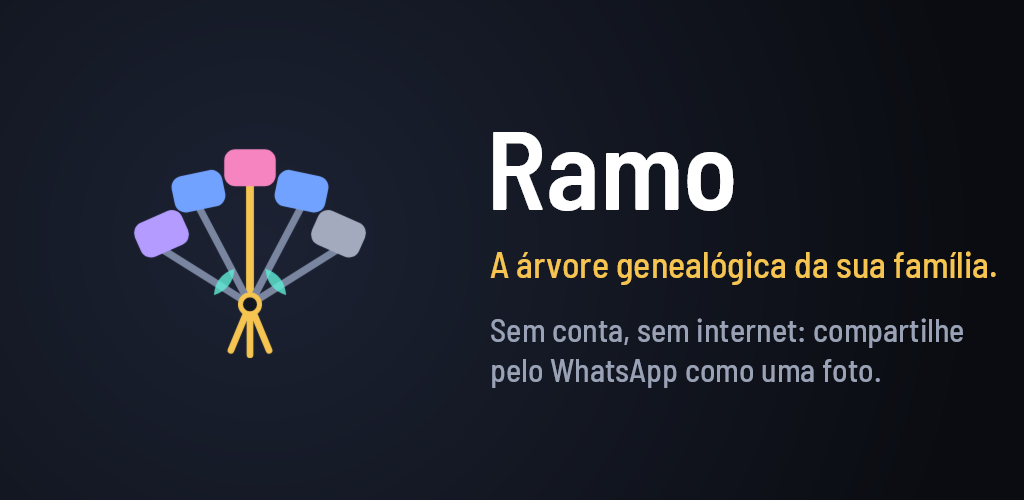
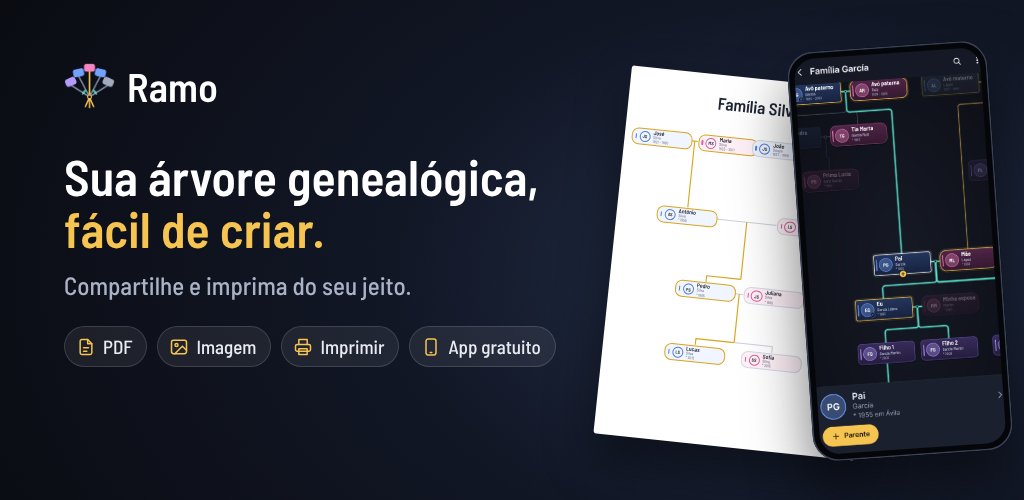
Tienda: nueva imagen destacada (móvil y hoja impresa) en los seis idiomas, sin WhatsApp
Se genera con tienda/destacada-fuente/generar.js a partir de destacada.html, que
sustituye a destacada-ramo.cs. Habla de lo fácil que es, de compartir en PDF, como
imagen o con la app gratuita y de imprimir; la hoja lleva apellidos de cada idioma.

Claude-Session: https://claude.ai/code/session_01PULE3Ctvt9eCQFhCMTbxC5

Changed region(s): [[0.0625, 0.12, 1.0, 0.93], [0.0625, 0.12, 0.2188, 0.21], [0.0625, 0.66, 0.125, 0.72]]

diff --git a/tienda/destacada-fuente/destacada.html b/tienda/destacada-fuente/destacada.html
@@ -1,0 +1,177 @@
+<!doctype html>
+<html><head><meta charset="utf-8">
+<style>
+@font-face{font-family:B;src:url(../../src/ArbolGenealogico.Movil/Recursos/Fuentes/BarlowSemiCondensed-Medium.ttf);font-weight:500}
+@font-face{font-family:B;src:url(../../src/ArbolGenealogico.Movil/Recursos/Fuentes/BarlowSemiCondensed-SemiBold.ttf);font-weight:600}
+*{box-sizing:border-box;margin:0;padding:0}
+html,body{width:1024px;height:500px;overflow:hidden}
+body{font-family:B;font-weight:500;position:relative}
+.abs{position:absolute}
+/* tarjetas del árbol */
+.card{position:absolute;border-radius:7px;display:flex;align-items:center;gap:5px;padding:0 6px 0 5px;overflow:hidden;white-space:nowrap}
+.card .bar{width:2.5px;align-self:stretch;margin:5px 0;border-radius:2px}
+.card .av{border-radius:50%;display:flex;align-items:center;justify-content:center;font-weight:600;flex:none}
+.card .n{font-weight:600;line-height:1}
+.card .y{line-height:1.15;opacity:.75}
+svg.lines{position:absolute;left:0;top:0;overflow:visible}
+</style></head>
+<body>
+<!-- Imagen destacada de Google Play (1024 × 500). ?v=A es la que se usa; B y C, las otras propuestas. ?l=es|en|fr|it|de|pt.
+     Se genera con: node tienda/destacada-fuente/generar.js -->
+<script>
+const P = new URLSearchParams(location.search);
+const V = P.get('v') || 'A', L = P.get('l') || 'es';
+const T = {
+ es:{
+  a1:'Tu árbol genealógico,', a2:'fácil de crear.', a3:'Compártelo e imprímelo como quieras.',
+  chips:['PDF','Imagen','Imprimir','App gratuita'],
+  b1:'Crea tu árbol', b2:'genealógico', b3:'en minutos.', b4:'Y compártelo en PDF, como imagen o con la app gratuita. Listo para imprimir.',
+  c0:'El árbol de tu familia, en tres pasos',
+  c:[['Créalo','Fácil, desde el móvil'],['Compártelo','PDF, imagen o la app gratis'],['Imprímelo','En A4, en una o varias hojas']],
+  pdf:'PDF', sheet:'Familia García'
+ }
+};
+
+const N = {
+ es:[['Manuel','García'],['Rosa','Ruiz'],['José','López'],['Pilar','Sanz'],['Antonio','García Ruiz'],['Carmen','López Sanz'],['Pablo','García López'],['Lucía','Martín'],['Hugo','García Martín'],['Sara','García Martín']],
+ en:[['George','Smith'],['Mary','Smith'],['Thomas','Brown'],['Helen','Brown'],['John','Smith'],['Anne','Smith'],['David','Smith'],['Emma','Smith'],['Jack','Smith'],['Lily','Smith']],
+ fr:[['Henri','Martin'],['Jeanne','Martin'],['Louis','Bernard'],['Marie','Bernard'],['Pierre','Martin'],['Claire','Martin'],['Thomas','Martin'],['Julie','Martin'],['Hugo','Martin'],['Léa','Martin']],
+ it:[['Giuseppe','Rossi'],['Maria','Rossi'],['Luigi','Bianchi'],['Anna','Bianchi'],['Marco','Rossi'],['Giulia','Rossi'],['Luca','Rossi'],['Sara','Rossi'],['Matteo','Rossi'],['Sofia','Rossi']],
+ de:[['Karl','Müller'],['Anna','Müller'],['Hans','Schmidt'],['Greta','Schmidt'],['Peter','Müller'],['Ursula','Müller'],['Thomas','Müller'],['Julia','Müller'],['Lukas','Müller'],['Emma','Müller']],
+ pt:[['José','Silva'],['Maria','Silva'],['João','Souza'],['Ana','Souza'],['Antônio','Silva'],['Lúcia','Silva'],['Pedro','Silva'],['Juliana','Silva'],['Lucas','Silva'],['Sofia','Silva']],
+};
+Object.assign(T, {
+ en:{a1:'Your family tree,',a2:'easy to build.',a3:'Share it and print it your way.',chips:['PDF','Image','Print','Free app'],sheet:'Smith Family'},
+ fr:{a1:'Votre arbre généalogique,',a2:'facile à créer.',a3:'Partagez-le et imprimez-le comme vous voulez.',chips:['PDF','Image','Imprimer','Appli gratuite'],sheet:'Famille Martin'},
+ it:{a1:'Il tuo albero genealogico,',a2:'facile da creare.',a3:'Condividilo e stampalo come vuoi.',chips:['PDF','Immagine','Stampa','App gratuita'],sheet:'Famiglia Rossi'},
+ de:{a1:'Dein Stammbaum,',a2:'ganz einfach erstellt.',a3:'Teile und drucke ihn, wie du willst.',chips:['PDF','Bild','Drucken','Gratis-App'],sheet:'Familie Müller'},
+ pt:{a1:'Sua árvore genealógica,',a2:'fácil de criar.',a3:'Compartilhe e imprima do seu jeito.',chips:['PDF','Imagem','Imprimir','App gratuito'],sheet:'Família Silva'},
+});
+const t = T[L] || T.es;
+
+// ---------- iconos ----------
+const ico = {
+ pdf:(c)=>`<svg viewBox="0 0 24 24" fill="none" stroke="${c}" stroke-width="1.8" stroke-linecap="round" stroke-linejoin="round"><path d="M14 3H7a2 2 0 0 0-2 2v14a2 2 0 0 0 2 2h10a2 2 0 0 0 2-2V8z"/><path d="M14 3v5h5"/><path d="M9 13h6M9 17h4"/></svg>`,
+ img:(c)=>`<svg viewBox="0 0 24 24" fill="none" stroke="${c}" stroke-width="1.8" stroke-linecap="round" stroke-linejoin="round"><rect x="3" y="4" width="18" height="16" rx="2.5"/><circle cx="9" cy="9.5" r="1.8"/><path d="M21 16l-5-5-9 9"/></svg>`,
+ print:(c)=>`<svg viewBox="0 0 24 24" fill="none" stroke="${c}" stroke-width="1.8" stroke-linecap="round" stroke-linejoin="round"><path d="M7 9V3h10v6"/><rect x="3" y="9" width="18" height="8" rx="2"/><path d="M7 14h10v7H7z"/></svg>`,
+ phone:(c)=>`<svg viewBox="0 0 24 24" fill="none" stroke="${c}" stroke-width="1.8" stroke-linecap="round" stroke-linejoin="round"><rect x="6" y="2.5" width="12" height="19" rx="2.5"/><path d="M11 18.5h2"/></svg>`,
+ share:(c)=>`<svg viewBox="0 0 24 24" fill="none" stroke="${c}" stroke-width="1.8" stroke-linecap="round" stroke-linejoin="round"><circle cx="18" cy="5" r="2.6"/><circle cx="6" cy="12" r="2.6"/><circle cx="18" cy="19" r="2.6"/><path d="M8.3 10.7l7.4-4.3M8.3 13.3l7.4 4.3"/></svg>`,
+ hand:(c)=>`<svg viewBox="0 0 24 24" fill="none" stroke="${c}" stroke-width="1.8" stroke-linecap="round" stroke-linejoin="round"><path d="M12 5v14M5 12h14"/></svg>`,
+};
+
+// ---------- árbol dibujado (para la hoja impresa y la opción B) ----------
+// tema: {bg, text, sub, male, female, line, gold, border}
+function tree(el, W, H, th, s){
+  const years=['1921 – 1990','1925 – 2011','1927 – 1999','1930 – 2015','* 1955','* 1958','* 1985','* 1986','* 2012','* 2015'];
+  const sex='mfmfmfmfmf', gold=[1,1,0,0,1,0,1,0,1,0];
+  const people=(N[L]||N.es).map((p,i)=>[p[0],p[1],years[i],sex[i],gold[i]]);
+  const cw = 118*s, ch = 34*s, gx = W/4;
+  const rows = [16*s, H*0.30, H*0.56, H*0.82 - ch/2];
+  const pos = [
+   [gx*0.5-cw/2- 6*s, rows[0]],[gx*1.5-cw/2+6*s, rows[0]],[gx*2.5-cw/2-6*s, rows[0]],[gx*3.5-cw/2+6*s, rows[0]],
+   [gx*1-cw/2, rows[1]],[gx*3-cw/2, rows[1]],
+   [gx*2-cw-8*s, rows[2]],[gx*2+8*s, rows[2]],
+   [gx*2-cw-16*s, rows[3]],[gx*2+16*s, rows[3]]];
+  let svg = `<svg class="lines" width="${W}" height="${H}">`;
+  const ln = (pts, gold) => svg += `<path d="M${pts.map(p=>p.join(' ')).join(' L')}" fill="none" stroke="${gold?th.gold:th.line}" stroke-width="${(gold?2.2:1.4)*s}" stroke-linejoin="round"/>`;
+  const mid = (a,b)=>[(pos[a][0]+cw+pos[b][0])/2, pos[a][1]+ch/2];
+  // parejas
+  [[0,1,1],[2,3,0],[4,5,0],[6,7,0]].forEach(([a,b,g])=>ln([[pos[a][0]+cw,pos[a][1]+ch/2],[pos[b][0],pos[b][1]+ch/2]], g));
+  // hijos
+  const down=(couple, kids, gold)=>{ const [mx,my]=mid(...couple); const yb = pos[kids[0]][1]-12*s;
+    ln([[mx,my],[mx,yb]], gold); kids.forEach(k=>ln([[mx,yb],[pos[k][0]+cw/2,yb],[pos[k][0]+cw/2,pos[k][1]]], gold && people[k][4]));};
+  down([0,1],[4],1); down([2,3],[5],0); down([4,5],[6],1); down([6,7],[8,9],1);
+  svg += `</svg>`;
+  let html = svg;
+  people.forEach((p,i)=>{
+    const c = p[3]=='m'?th.male:th.female, g = p[4] && th.goldBorder;
+    html += `<div class="card" style="left:${pos[i][0]}px;top:${pos[i][1]}px;width:${cw}px;height:${ch}px;background:${p[3]=='m'?th.cardM:th.cardF};border:${(g?1.6:1)*s}px solid ${g?th.gold:th.border};gap:${5*s}px;padding:0 ${6*s}px 0 ${5*s}px">
+      <div class="bar" style="background:${c};width:${2.5*s}px"></div>
+      <div class="av" style="width:${22*s}px;height:${22*s}px;border:${1.3*s}px solid ${c};color:${th.text};font-size:${9*s}px">${p[0][0]}${p[1][0]}</div>
+      <div><div class="n" style="color:${th.text};font-size:${11*s}px">${p[0]}</div><div class="y" style="color:${th.sub};font-size:${8*s}px">${p[1]}</div><div class="y" style="color:${th.sub};font-size:${7.5*s}px">${p[2]}</div></div></div>`;
+  });
+  el.innerHTML += html;
+}
+const paper = {text:'#1d2433', sub:'#5b6478', male:'#4f7fe0', female:'#d9619c', line:'#b9bfcc', gold:'#d9a520', goldBorder:true, border:'#d5d9e2', cardM:'#f1f5ff', cardF:'#fff1f7'};
+
+function phone(x,y,w,src,rot,crop){
+  const h = w*2.05;
+  return `<div class="abs" style="left:${x}px;top:${y}px;width:${w}px;height:${h}px;border-radius:${w*0.13}px;background:#05060a;padding:${w*0.035}px;box-shadow:0 30px 60px rgba(0,0,0,.55),0 0 0 1.5px #3a4256 inset;transform:rotate(${rot}deg)">
+   <div style="width:100%;height:100%;border-radius:${w*0.1}px;background:url(${src}) ${crop||'center top'}/cover;"></div></div>`;
+}
+function sheet(x,y,w,rot,label){
+  const h = w*1.414;
+  const id='s'+Math.random().toString(36).slice(2);
+  return `<div class="abs" style="left:${x}px;top:${y}px;width:${w}px;height:${h}px;background:#fff;border-radius:3px;box-shadow:0 24px 50px rgba(0,0,0,.45);transform:rotate(${rot}deg);overflow:hidden">
+     <div style="position:absolute;left:0;right:0;top:${w*0.07}px;text-align:center;font-weight:600;color:#1d2433;font-size:${w*0.065}px">${label}</div>
+     <div id="${id}" style="position:absolute;left:${w*0.04}px;top:${w*0.2}px;width:${w*0.92}px;height:${h*0.75}px"></div></div>`;
+}
+const body = document.body;
+
+if (V==='A'){
+  body.style.background = 'radial-gradient(900px 600px at 78% 55%, #23304a 0%, #121726 45%, #0a0c12 100%)';
+  body.innerHTML = `
+   <div class="abs" style="left:64px;top:62px;display:flex;align-items:center;gap:12px">
+     <img src="ramo.png" style="height:46px"><span style="color:#fff;font-weight:600;font-size:40px;letter-spacing:.3px">Ramo</span></div>
+   <div class="abs" style="left:64px;top:150px;width:520px">
+     <div style="color:#fff;font-weight:600;font-size:50px;line-height:1.04">${t.a1}<br><span style="color:#F5C451">${t.a2}</span></div>
+     <div style="color:#aab2c5;font-size:25px;margin-top:16px">${t.a3}</div>
+     <div style="display:flex;gap:10px;margin-top:26px">${
+       [['pdf',t.chips[0]],['img',t.chips[1]],['print',t.chips[2]],['phone',t.chips[3]]].map(([i,l])=>
+        `<div style="display:flex;align-items:center;gap:7px;padding:8px 14px 8px 11px;border-radius:999px;background:rgba(255,255,255,.07);border:1px solid rgba(255,255,255,.14);color:#e9ecf3;font-size:19px"><span style="width:20px;height:20px;display:block">${ico[i]('#F5C451')}</span>${l}</div>`).join('')}
+     </div></div>
+   ${sheet(612,78,262,6,t.sheet)}
+   ${phone(800,46,200,'../capturas/'+L+'/1-arbol.png',-4,'38% 4%')}
+  `;
+  const s = document.querySelector('[id^=s]'); tree(s, s.clientWidth, s.clientHeight, paper, s.clientWidth/470);
+  const fit=(el,max)=>{ let fs=parseFloat(getComputedStyle(el).fontSize); while(el.scrollWidth>max && fs>10){fs-=0.5; el.style.fontSize=fs+'px';} };
+  const box=document.querySelector('[style*="width:520px"]');
+  box.style.width='auto'; box.style.whiteSpace='nowrap';
+  const [h,sub,row]=box.children; h.style.display=sub.style.display='inline-block'; 
+  fit(h,540); sub.style.display='block'; sub.style.whiteSpace='nowrap'; fit(sub,540);
+  h.style.display='block';
+  // etiquetas: si no caben en 540, se reducen letra y huecos
+  let k=1; row.style.width='max-content';
+  while(row.scrollWidth>540 && k>0.6){k-=0.02; row.style.gap=(10*k)+'px'; [...row.children].forEach(c=>{c.style.fontSize=(19*k)+'px';c.style.padding=`${8*k}px ${14*k}px ${8*k}px ${11*k}px`;});}
+}
+
+if (V==='B'){
+  body.style.background = 'linear-gradient(120deg,#fbf7ef 0%,#f4ecdd 100%)';
+  body.innerHTML = `
+   <div class="abs" style="right:-40px;top:0;width:640px;height:500px;background:radial-gradient(closest-side,rgba(245,196,81,.28),rgba(245,196,81,0));"></div>
+   <div class="abs" style="left:60px;top:58px;display:flex;align-items:center;gap:12px">
+     <div style="width:58px;height:58px;border-radius:15px;background:#121726;display:flex;align-items:center;justify-content:center"><img src="ramo.png" style="height:40px"></div>
+     <span style="color:#1d2433;font-weight:600;font-size:40px">Ramo</span></div>
+   <div class="abs" style="left:60px;top:150px;width:440px">
+     <div style="color:#1d2433;font-weight:600;font-size:54px;line-height:1.02">${t.b1}<br>${t.b2}<br><span style="color:#c9901a">${t.b3}</span></div>
+     <div style="color:#5b6478;font-size:22px;line-height:1.3;margin-top:18px">${t.b4}</div></div>
+   <div class="abs" id="tb" style="left:486px;top:56px;width:500px;height:388px;background:#fff;border-radius:12px;box-shadow:0 20px 50px rgba(80,60,20,.18)"></div>
+   <div class="abs" style="left:880px;top:392px;display:flex;gap:10px">${['pdf','img','print'].map(i=>`<div style="width:56px;height:56px;border-radius:50%;background:#121726;display:flex;align-items:center;justify-content:center;box-shadow:0 8px 18px rgba(0,0,0,.25)"><span style="width:28px;height:28px;display:block">${ico[i]('#F5C451')}</span></div>`).join('')}</div>
+  `;
+  body.lastElementChild.style.left = (1024-60-3*56-20)+'px';
+  const s=document.getElementById('tb'); tree(s, 500, 372, paper, 0.9);
+}
+
+if (V==='C'){
+  body.style.background = 'radial-gradient(1000px 520px at 50% 0%, #1f2a42 0%, #111522 55%, #0a0c12 100%)';
+  const step=(k,i)=>{
+    const [h,sub]=t.c[k];
+    return `<div style="width:290px;display:flex;flex-direction:column;align-items:center;text-align:center">
+     <div style="width:180px;height:200px;position:relative;margin-bottom:26px;transform:scale(1.12);transform-origin:center top">${i}</div>
+     <div style="color:#fff;font-weight:600;font-size:38px">${h}</div>
+     <div style="color:#aab2c5;font-size:22px;margin-top:4px">${sub}</div></div>`;
+  };
+  const ph = `<div class="abs" style="left:45px;top:0;width:92px;height:190px;border-radius:14px;background:#05060a;padding:4px;box-shadow:0 0 0 1.5px #3a4256 inset,0 14px 30px rgba(0,0,0,.5)"><div style="width:100%;height:100%;border-radius:11px;background:url(../capturas/es/1-arbol.png) 40% 52%/cover"></div></div>`;
+  const sh = `<div class="abs" style="left:36px;top:30px;width:110px;height:150px;border-radius:10px;background:#1c2335;border:1px solid #2f384d"></div>
+     ${[['pdf',0,'#e8574a'],['img',1,'#4f7fe0'],['phone',2,'#F5C451']].map(([n,j,c])=>`<div class="abs" style="left:${j*58+8}px;top:${[20,70,120][j]}px;width:64px;height:64px;border-radius:16px;background:#232b40;border:1px solid #39435c;display:flex;align-items:center;justify-content:center;box-shadow:0 10px 20px rgba(0,0,0,.4)"><span style="width:32px;height:32px;display:block">${ico[n](c)}</span></div>`).join('')}`;
+  const pr = `${sheet(40,8,110,4,'Familia García')}`;
+  body.innerHTML = `
+   <div class="abs" style="left:0;right:0;top:38px;display:flex;justify-content:center;align-items:center;gap:10px">
+     <img src="ramo.png" style="height:34px"><span style="color:#fff;font-weight:600;font-size:30px">Ramo</span>
+     <span style="color:#6c7590;font-size:24px;margin-left:6px">·</span><span style="color:#aab2c5;font-size:24px;margin-left:6px">${t.c0}</span></div>
+   <div class="abs" style="left:42px;right:42px;top:112px;display:flex;justify-content:space-between">
+     ${step(0,ph)}${step(1,sh)}${step(2,pr)}</div>`;
+  const s = document.querySelector('[id^=s]'); tree(s, s.clientWidth, s.clientHeight, paper, s.clientWidth/470);
+}
+</script>
+</body></html>

diff --git a/tienda/destacada-fuente/generar.js b/tienda/destacada-fuente/generar.js
@@ -1,0 +1,17 @@
+// Genera tienda/destacada/<idioma>.png (1024 × 500) a partir de destacada.html, con Playwright y Chromium:
+//   node tienda/destacada-fuente/generar.js [idiomas…]
+const path = require('path');
+const { chromium } = require('playwright');
+(async () => {
+  const idiomas = process.argv.length > 2 ? process.argv.slice(2) : ['es', 'en', 'fr', 'it', 'de', 'pt'];
+  const b = await chromium.launch({ args: ['--allow-file-access-from-files'] });
+  const p = await b.newPage({ viewport: { width: 1024, height: 500 }, deviceScaleFactor: 1 });
+  for (const l of idiomas) {
+    await p.goto('file://' + path.join(__dirname, 'destacada.html') + '?v=A&l=' + l);
+    await p.evaluate(() => document.fonts.ready);
+    await p.waitForTimeout(300);
+    await p.screenshot({ path: path.join(__dirname, '..', 'destacada', l + '.png') });
+    console.log(l);
+  }
+  await b.close();
+})();

diff --git a/ANDROID.md b/ANDROID.md
@@ -185,7 +185,8 @@ El archivo que se sube es `dist/android/com.thenend.arbolgenealogico-Signed.aab`
 4. **Ficha de Play Store** en seis idiomas (textos en `tienda/ficha.md`), icono `tienda/icono-play-512.png`, imagen
    destacada `tienda/destacada/<idioma>.png` y capturas `tienda/capturas/<idioma>/*.png` (1080 × 2160). El icono (el ramo) se genera con
    `dotnet run tienda/ramo.cs -- todo …` (Android, Play, escritorio y web; ver el comentario del principio) y la imagen
-   destacada con `tienda/destacada-ramo.cs` (el idioma, el último argumento). Las capturas, con la aplicación de
+   destacada con `node tienda/destacada-fuente/generar.js` (Playwright y Chromium; dibuja `destacada.html` en cada
+   idioma, con la captura `1-arbol.png` de ese idioma en el móvil, así que se rehace después de las capturas). Las capturas, con la aplicación de
    escritorio, `ARBOL_ESCALA=2.5`, `ARBOL_IDIOMA` y los pasos `abrir:Ejemplos/familia-garcia.ramo sel:<Padre>`,
    `ejemplo inicio`, `abrir:Ejemplos/familia-perez.ramo recibir:<árbol>`, `abrir:… fusionar:<árbol>|Ana` y
    `abrir:… ficha:<Abuelo paterno>` (con los nombres del ejemplo en ese idioma).
